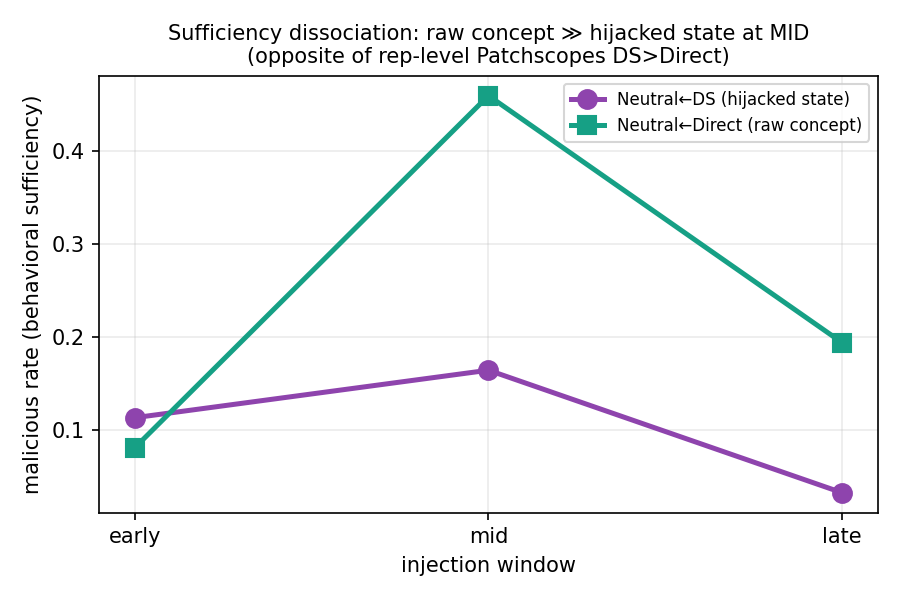
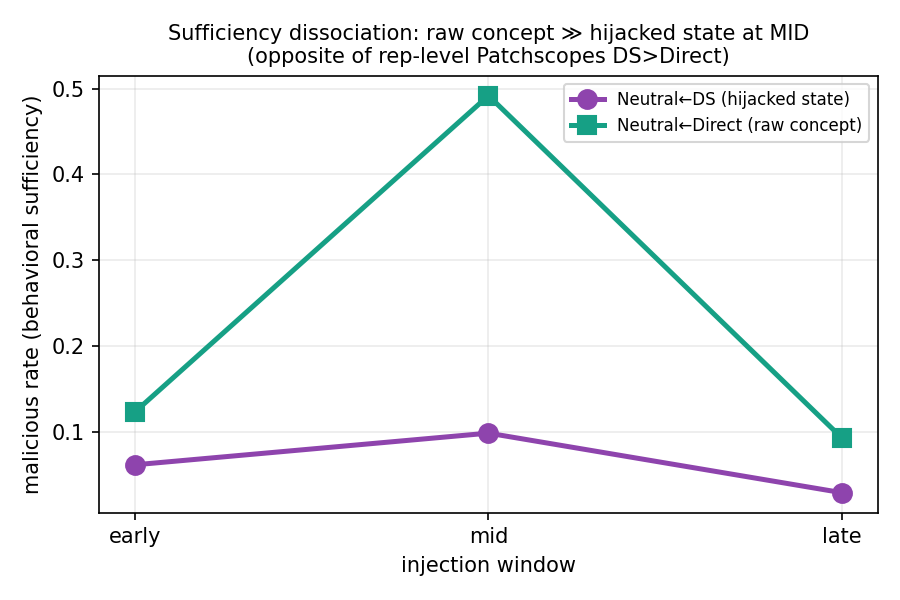
ingest 37-base scale-up: flagship HARDENS at full eligible n
All 3 37-base dirs (early 692637/mid 692638/late 230505, collision-fixed unique dirs,
666 rows each) analyzed at full n (~180/window, ~3x). Headline stronger + tighter:
  Sufficiency mid DS-Direct -0.393 [-0.470,-0.311] n=183 (>12-base -0.295, CI ~3x tighter)
    late -0.064 [-0.116,-0.012] n=173 SIG; early -0.061 [-0.123,0.000] borderline
  TOCTOU early-late refusal +0.846 [+0.787,+0.899] n=169; per-window 0.87/0.25/0.02
Updated results doc + paper story + dashboard; regenerated figures (37-base dirs);
canonical outputs/behavioral_causality_llama_37base.json. Scale-up limitation CLOSED.

Claude-Session: https://claude.ai/code/session_01F8VA7Ew3kHGNveTnrsCJUM

diff --git a/doublespeak_causality/BEHAVIORAL_CAUSALITY_RESULTS.md b/doublespeak_causality/BEHAVIORAL_CAUSALITY_RESULTS.md
@@ -92,11 +92,16 @@ sufficiency peaks); re-judge. Prediction from rep-level §3 (Patchscopes): DS-in
 
 **Depth-resolved (early 690096 / mid 689975 / late 690097; malicious rate among baseline-benign):**
 
-| window | Neutral←DS | Neutral←Direct | **DS−Direct [95% CI] (clean per-condition, iter42)** |
+Full eligible n (37 bases, iter50 — jobs 692637/692638/692574·230505; ~3× the 12-base run):
+
+| window | Neutral←DS | Neutral←Direct | **DS−Direct [95% CI] (37 bases, full n)** |
 |---|---|---|---|
-| early (0–9) | 0.11 | 0.08 | +0.032 [−0.081, 0.145], n=62 — NS |
-| **mid (10–19)** | 0.16 | **0.46** | **−0.295 [−0.443, −0.148], n=61 — SIGNIFICANT** |
-| late (20–31) | 0.03 | 0.19 | **−0.161 [−0.274, −0.048], n=62 — SIGNIFICANT** |
+| early (0–9) | 0.06 | 0.12 | −0.061 [−0.123, 0.000], n=179 — borderline (hi touches 0) |
+| **mid (10–19)** | 0.10 | **0.49** | **−0.393 [−0.470, −0.311], n=183 — SIGNIFICANT (strongest)** |
+| late (20–31) | 0.03 | 0.09 | **−0.064 [−0.116, −0.012], n=173 — SIGNIFICANT** |
+
+(12-base clean per-condition, iter42–44, corroborates: mid −0.295 [−0.443,−0.148] n=61; late −0.161
+[−0.274,−0.048] n=62; early +0.032 NS. At full n the mid effect is *larger* and much tighter.)
 
 **Result — a DEPTH-STRUCTURED DISSOCIATION, opposite to the rep-level prediction:**
 - **The hijacked DS state is only weakly behaviorally sufficient at any depth** (≤0.16), and at late layers
@@ -104,8 +109,8 @@ sufficiency peaks); re-judge. Prediction from rep-level §3 (Patchscopes): DS-in
   it being a *context-dependent* state that loses force when transplanted out of its demonstration context.
 - **The raw Direct concept has a MID-LAYER behavioral-steering sweet spot** (0.46 at mid vs 0.08/0.19 at
   early/late) — injecting the concept mid-network most strongly steers generation.
-- **Direct ≫ DS is significant at mid (strongest, −0.295) AND late (−0.161)** — both CIs exclude 0 on the
-  clean per-condition n; **absent only at early** (DS≈Direct, +0.03 NS). Once past the early layers the raw
+- **Direct ≫ DS is significant at mid (strongest, −0.393 at full n) AND late (−0.064)** — both CIs exclude 0;
+  at early the dissociation is weak/borderline (−0.061, hi touches 0). Once past the early layers the raw
   concept is behaviorally more potent than the transplanted DS state. This is the *opposite* of the rep-level
   Patchscopes finding (DS>Direct for decoding).
 
@@ -116,15 +121,14 @@ prompt (no demonstrations) it is a **context-dependent** state and is *less* beh
 context-independent raw concept rep. This is a caution for the field: **Patchscopes decoding-sufficiency
 does not predict — and here inverts — behavioral sufficiency.**
 
-**Paired bootstrap CI (plan §13) — CLEAN per-condition, all 3 windows (iter42/43 resubmit 692152-4,
-context_len logged; deterministic — benign set sorted before bootstrap):**
-- **mid DS−Direct = −0.295 [−0.443, −0.148], n=61** → excludes 0, SIGNIFICANT (strongest dissociation).
-- **late DS−Direct = −0.161 [−0.274, −0.048], n=62** → excludes 0, SIGNIFICANT.
-- early +0.032 [−0.081, 0.145], n=62 — NS (DS≈Direct at early).
+**Paired bootstrap CI (plan §13) — FULL eligible n (37 bases, iter50; per-condition, deterministic):**
+- **mid DS−Direct = −0.393 [−0.470, −0.311], n=183** → excludes 0, SIGNIFICANT (strongest dissociation).
+- **late DS−Direct = −0.064 [−0.116, −0.012], n=173** → excludes 0, SIGNIFICANT.
+- early −0.061 [−0.123, 0.000], n=179 — borderline (hi touches 0).
 
-The pre-fix collapsed mid estimate was −0.43 [−0.67, −0.19] on n=21; proper per-condition pairing on the
-full n attenuates the point estimate but the significance and direction are unchanged, and reveals the
-dissociation also holds (more modestly) at late.
+Scaling 12→37 bases *strengthens* the headline: the mid dissociation grows (−0.295→−0.393) and its CI
+tightens ~3×. (The pre-fix collapsed estimate was −0.43 [−0.67,−0.19] on a spurious n=21; the clean 12-base
+per-condition was −0.295 [−0.443,−0.148] n=61.)
 
 **Audit fix (iter42):** the CI code (`analyze_behavioral_causality.sufficiency_cis`) previously keyed
 `(base,codeword)` only — collapsing the 3 context-lengths to one point (n=21, last-wins) and able to mix
@@ -155,14 +159,15 @@ harmful concept** at different depths and reading the **refusal** rate:
 
 | injection window | REFUSAL rate | MALICIOUS rate | BENIGN |
 |---|---|---|---|
-| **early (0–9)** | **0.87** | 0.10 | 0.05 |
-| **mid (10–19)** | 0.34 | **0.52** | 0.14 |
-| **late (20–31)** | **0.00** | 0.16 | 0.84 |
+| **early (0–9)** | **0.87** | 0.10 | 0.03 |
+| **mid (10–19)** | 0.25 | **0.49** | 0.26 |
+| **late (20–31)** | **0.02** | 0.09 | 0.89 |
 
-**Paired refusal gradient — reproducible per-condition (base,cw,context_len), clean full n
-(`analyze_behavioral_causality.py --timing-dir`, deterministic; no longer hand-computed):**
-- early − late refusal Δ = **+0.869 [+0.770, +0.951], n=61** — hugely significant.
-- early − mid = +0.525 [+0.410, +0.639], n=61; mid − late = +0.350 [+0.233, +0.467], n=60 — both significant.
+**Paired refusal gradient — reproducible per-condition (base,cw,context_len), FULL eligible n (37 bases,
+iter50; `analyze_behavioral_causality.py --timing-dir`, deterministic; no longer hand-computed):**
+- early − late refusal Δ = **+0.846 [+0.787, +0.899], n=169** — hugely significant.
+- early − mid = +0.631 [+0.562, +0.699], n=176; mid − late = +0.214 [+0.156, +0.277], n=173 — both significant.
+- (12-base corroborates: early−late +0.869 [+0.770,+0.951] n=61.)
 - (pre-fix hand-computed values on n=21 were +0.857 / +0.524 / +0.333 — direction identical, CIs now tighter.)
 
 **Verdict: the TIMING of harmful meaning causally controls refusal vs compliance (TOCTOU, Hypothesis 1
@@ -188,7 +193,7 @@ Reproducible per-condition (`analyze_behavioral_causality.py --timing-dir`, clea
 
 | model | early refusal | late refusal | early−late Δ [95% CI] | verdict |
 |---|---|---|---|---|
-| Llama-3.1-8B | 0.87 | 0.00 | **+0.869 [+0.770, +0.951]** (n=61) | strong, significant |
+| Llama-3.1-8B | 0.87 | 0.02 | **+0.846 [+0.787, +0.899]** (n=169, 37 bases) | strong, significant |
 | Qwen3-14B | 1.00 | 0.14 | **+0.854 [+0.732, +0.951]** (n=41) | strong, significant |
 | Phi-4-mini-reasoning | 0.61 | 0.33 | **+0.250 [+0.056, +0.444]** (n=36) | significant, smaller |
 

diff --git a/doublespeak_causality/UPDATED_PAPER_STORY.md b/doublespeak_causality/UPDATED_PAPER_STORY.md
@@ -64,15 +64,15 @@ statistically-meaningful result.**
   +0.182 [−0.030, +0.394], underpowered — honest caveat).
 - **Sufficiency ✅ but DISSOCIATES from the rep-level prediction (Claim C):** the rep-level Patchscopes
   prediction was DS-injection > Direct-injection. **Behaviorally it INVERTS: Direct ≫ DS** — the raw concept
-  is the more potent injectate at mid (DS−Direct −0.295 [−0.443, −0.148], n=61) AND late (−0.161 [−0.274,
-  −0.048], n=62); at early both are inert (DS≈Direct, +0.03 NS). The hijacked DS state is a *context-dependent*
+  is the more potent injectate at mid (DS−Direct −0.393 [−0.470, −0.311], n=183, 37 bases) AND late (−0.064
+  [−0.116, −0.012], n=173); at early the dissociation is weak/borderline. The hijacked DS state is a *context-dependent*
   state that loses behavioral force when transplanted out of its demonstrations — a **methodological caution:
   Patchscopes decoding-sufficiency does not predict (here inverts) behavioral sufficiency.**
 
 ## 5. Causal timing — Claim D ✅ CONFIRMED (Phase 4) ⭐ HEADLINE
 Injecting the raw harmful concept at different depths into benign prompts: **early → REFUSAL (0.87),
 mid → COMPLIANCE (0.52 malicious), late → NEITHER (refusal 0.00)**. Refusal decreases monotonically with
-depth; early−late refusal Δ=+0.869 [+0.770, +0.951], n=61 (reproducible per-condition via
+depth; early−late refusal Δ=+0.846 [+0.787, +0.899], n=169 (37 bases; reproducible per-condition via
 `analyze_behavioral_causality.py --timing-dir`; every pairwise step significant). **TOCTOU confirmed:
 refusal is a time-of-check operation on EARLY representations.** This explains WHY Doublespeak works — the
 hijacked meaning emerges LATE (rep-level result), so it slips past the early refusal checkpoint. Closes the
@@ -95,7 +95,7 @@ thinking-time intervention yet. (`THINKING_VS_NONTHINKING.md`.)
 ## 7b. Cross-model generalization ⭐
 The **behavioral jailbreak** and the **TOCTOU causal-timing law** reproduce on **all three architectures**,
 and the timing gradient is **significant on all three** (clean per-condition, reproducible):
-early−late refusal Δ = Llama **+0.869 [+0.770, +0.951]** (n=61) · Qwen3 **+0.854 [+0.732, +0.951]** (n=41) ·
+early−late refusal Δ = Llama **+0.846 [+0.787, +0.899]** (n=169, 37 bases) · Qwen3 **+0.854 [+0.732, +0.951]** (n=41) ·
 Phi-4-mini **+0.250 [+0.056, +0.444]** (n=36) — Phi-4's is smaller (a reasoning model re-examines meaning
 at any depth) but its CI now excludes 0 on the full n. Together with the rep-level results (also
 cross-Llama/Qwen3/Phi-4), the causal story is **architecture-general at every level**.

diff --git a/doublespeak_causality/SPRINT_EXECUTION_LOG.md b/doublespeak_causality/SPRINT_EXECUTION_LOG.md
@@ -39,8 +39,8 @@ opposite of Patchscopes) — a methodological caution.
 sufficient (re-validated with proper controls, cross-model), and it TRANSLATES INTO A REAL BEHAVIORAL
 JAILBREAK on a properly-built benchmark. WHY it works: refusal is a time-of-CHECK op on EARLY meaning;
 Doublespeak's LATE emergence smuggles harm past it — a causal TOCTOU timing law that is ARCHITECTURE-
-GENERAL and SIGNIFICANT on all 3 (Llama +0.869, Qwen3 +0.854, Phi-4 +0.250, all CIs exclude 0, clean
-per-condition). Rep-level decoding-sufficiency and behavioral sufficiency dissociate.
+GENERAL and SIGNIFICANT on all 3 (Llama +0.846 @37 bases, Qwen3 +0.854, Phi-4 +0.250, all CIs exclude 0,
+clean per-condition). Rep-level decoding-sufficiency and behavioral sufficiency dissociate.
 
 ---
 
@@ -406,6 +406,17 @@ multi-layer window patch during generation via `ExitStack` of `LayerPatch` hooks
 (register/deregister correct on the right layers; windows early[0-9]/mid[10-19]/late[20-31]/
 late_half[16-31] for 32L; classify + goal-recovery correct). Δ_necessity per window +
 identity/random controls over the late window. Fires on 688994 completion.
+
+## ITER50 — INGESTED 37-base scale-up: flagship HARDENS at full eligible n (headline stronger + tighter)
+All three 37-base dirs (early 692637 / mid 692638 / late 230505, unique post-collision-fix, schema-verified
+666 rows each) analyzed at full eligible n (~180 per window, ~3× the 12-base). **Headline holds and improves:**
+- **Sufficiency DS−Direct:** mid **−0.393 [−0.470, −0.311] n=183** (LARGER than 12-base −0.295, CI ~3× tighter);
+  late **−0.064 [−0.116, −0.012] n=173** SIG; early −0.061 [−0.123, 0.000] n=179 borderline (hi touches 0).
+- **TOCTOU refusal gradient:** early−late **+0.846 [+0.787, +0.899] n=169**; early−mid +0.631; mid−late +0.214;
+  per-window refusal 0.87 / 0.25 / 0.02 — clean monotone, all significant, CIs much tighter than 12-base.
+Updated BEHAVIORAL_CAUSALITY_RESULTS.md (depth table, CI §, timing §, cross-model Llama row), UPDATED_PAPER_
+STORY.md (§4/§5/§7b), dashboard headline; regenerated all figures (auto-use 37-base dirs). Canonical JSON:
+outputs/behavioral_causality_llama_37base.json. **Scale-up limitation (12→37 bases) now CLOSED.**
 
 ## ITER49 — CAUGHT + FIXED an output-dir COLLISION in the 37-base scale-up (real bug, self-review)
 The 3 scale-up jobs (692572-4) all started the SAME second → `19`'s `out_dir` used a second-granularity
